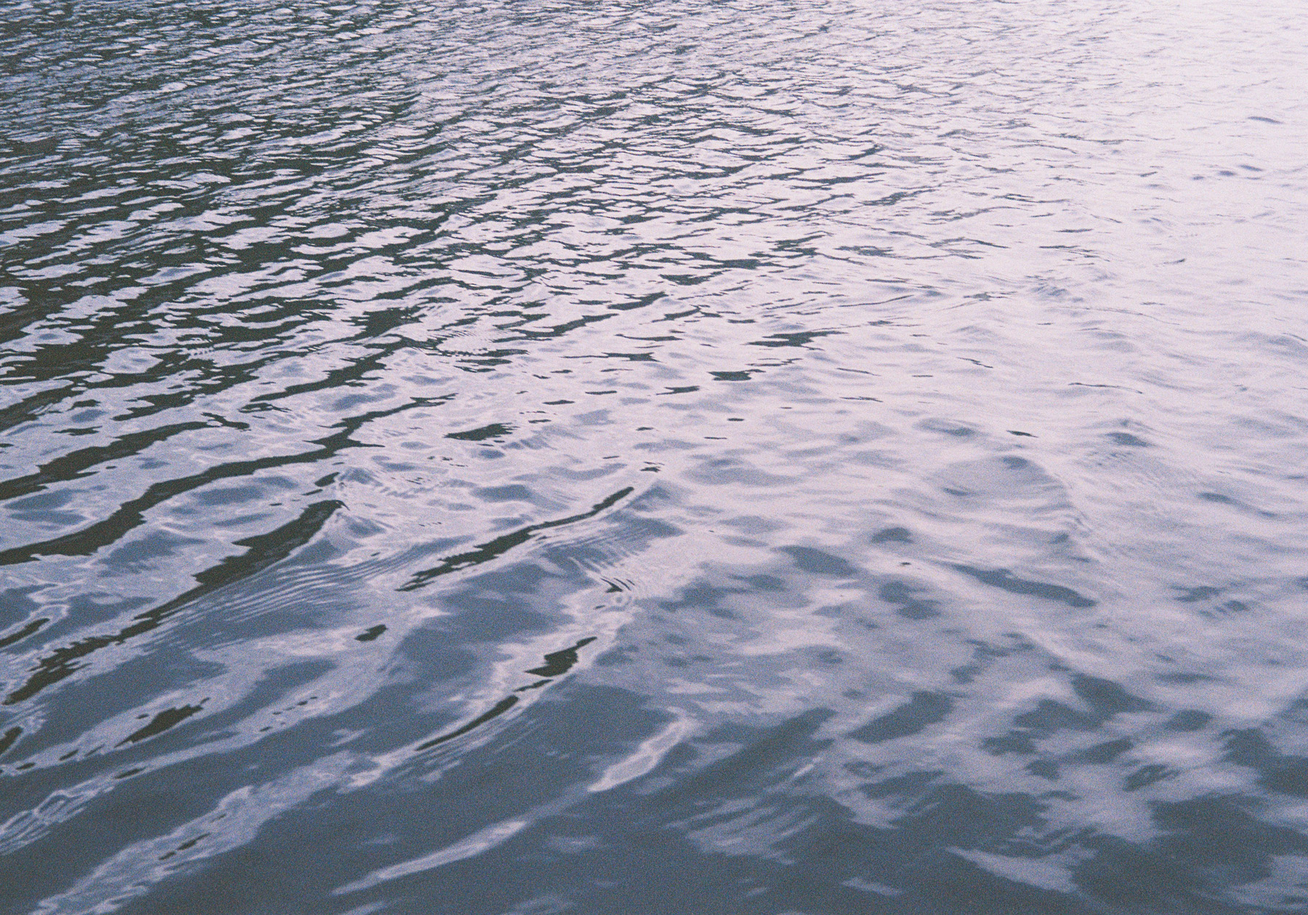
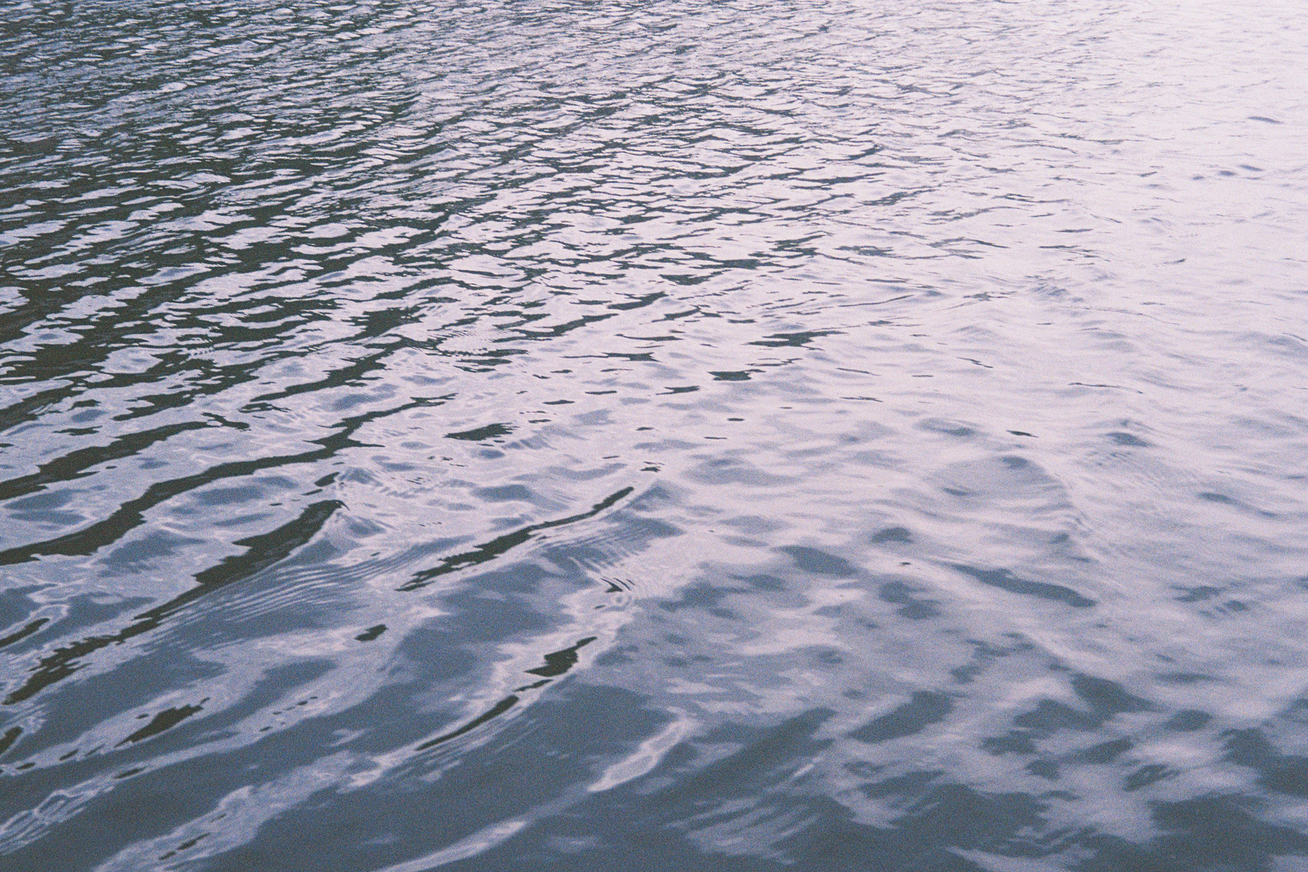
add codes

diff --git a/20260809.html b/20260809.html
@@ -152,30 +152,30 @@ a{
         <div class="example2">
             <img src="photo/20260809/20260809-7.jpg" alt="写真" width="445.44" height="296.96">
             <figcaption class="tag">
-                <a href="ht-street.html">(#street)</a> <a href="ht-beige.html">(#beige)</a> <a href="ht-cameradigital.html">(#digitalcamera)</a>
+                <a href="ht-street.html">(#street)</a> <a href="ht-beige.html">(#beige)</a> <a href="ht-camerafilm.html">(#film)</a>
             </figcaption>
-            <span class="caption">6</span>
+            <span class="caption">7</span>
         </div>
         <div class="example2">
             <img src="photo/20260809/20260809-8.jpg" alt="写真" width="445.44" height="296.96">
             <figcaption class="tag">
                 <a href="ht-street.html">(#street)</a> <a href="ht-beige.html">(#beige)</a> <a href="ht-cameradigital.html">(#digitalcamera)</a>
             </figcaption>
-            <span class="caption">6</span>
+            <span class="caption">8</span>
         </div>
         <div class="example2">
             <img src="photo/20260809/20260809-9.jpg" alt="写真" width="445.44" height="296.96">
             <figcaption class="tag">
                 <a href="ht-street.html">(#street)</a> <a href="ht-beige.html">(#beige)</a> <a href="ht-cameradigital.html">(#digitalcamera)</a>
             </figcaption>
-            <span class="caption">6</span>
+            <span class="caption">9</span>
         </div>
         <div class="example2">
             <img src="photo/20260809/20260809-10.jpg" alt="写真" width="445.44" height="296.96">
             <figcaption class="tag">
                 <a href="ht-street.html">(#street)</a> <a href="ht-beige.html">(#beige)</a> <a href="ht-cameradigital.html">(#digitalcamera)</a>
             </figcaption>
-            <span class="caption">6</span>
+            <span class="caption">10</span>
         </div>
 </div>
 

diff --git a/index.html b/index.html
@@ -111,6 +111,10 @@ a{
 
  <div class="flex">
     <figure class="example">
+        <a href="20260809.html"><img src="photo/20260809/20260809-1.jpg">
+        <figcaption>2026年8月9日</figcaption></a>
+    </figure>
+    <figure class="example">
         <a href="20260709.html"><img src="photo/20260709/20260709-1.jpg">
         <figcaption>2026年7月9日</figcaption></a>
     </figure>
